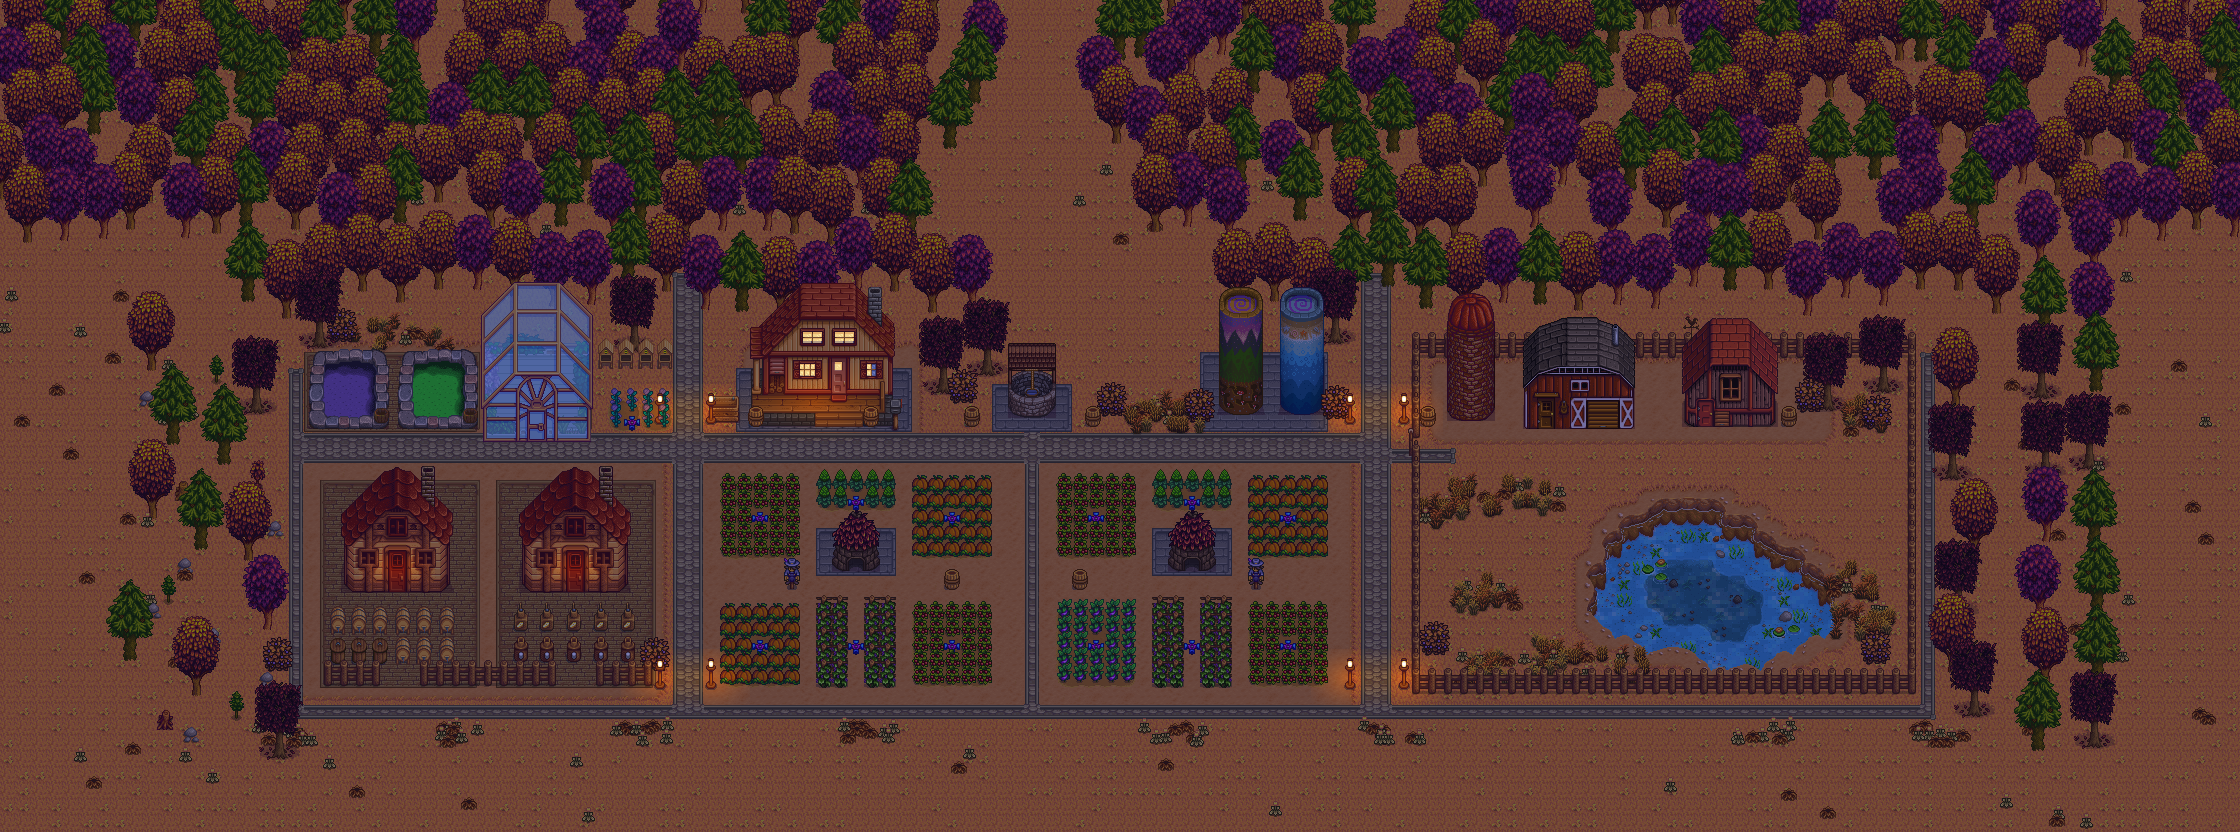
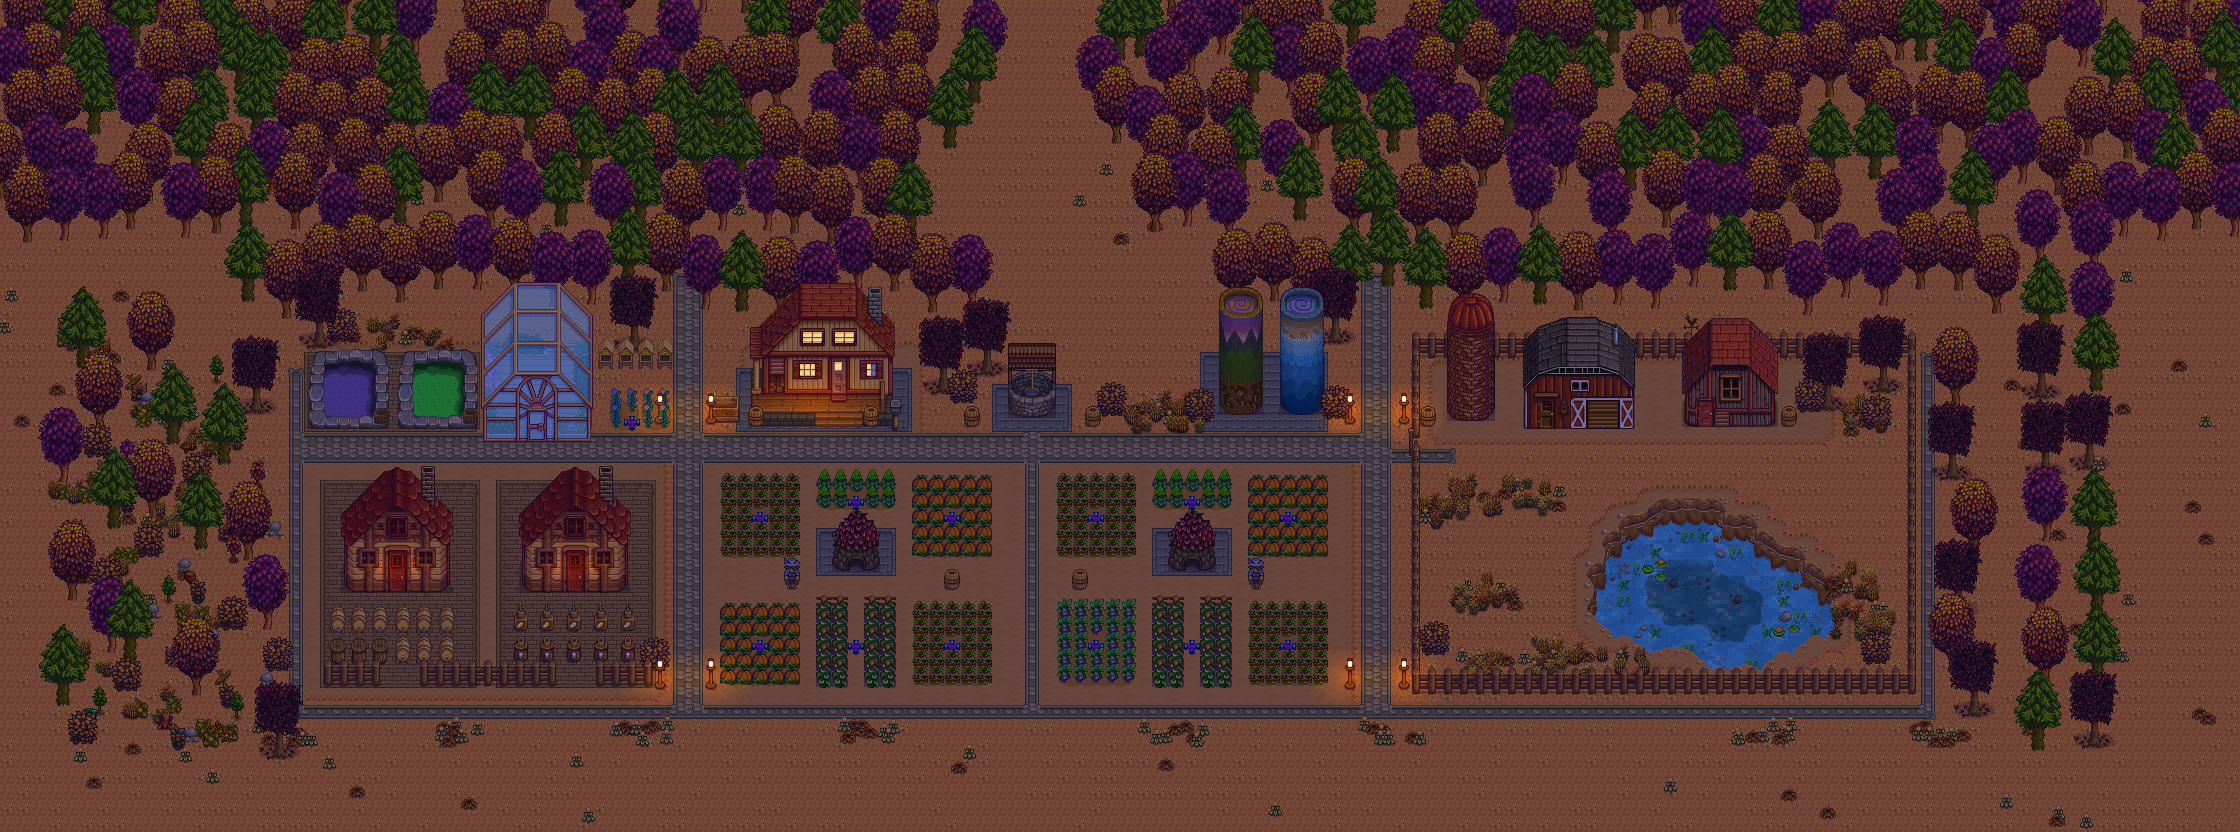
丰富四季农场左缘的森林植被

Changed region(s): [[0.0, 0.3438, 0.125, 0.9062]]

diff --git a/scripts/compose_spring_estate.py b/scripts/compose_spring_estate.py
@@ -151,6 +151,59 @@ def left_woodland(season):
                     (-38, 374), (9, 419), (-62, 467)]:
         stone = tile(outdoors(season), 7, 9) if season == "winter" else tile("Maps/springobjects.png", 343 % 24, 343 // 24)
         props.append((foot + rng.randint(-4, 4), x + rng.randint(-6, 6), stone))
+    # Put the denser canopy on the outside, with smaller growth beside the farm.
+    for x, foot, kind in [(-173, 103, "pine"), (-157, 160, "oak"), (-194, 211, "maple"),
+                          (-142, 264, "pine"), (-184, 329, "oak"), (-146, 381, "maple"),
+                          (-193, 441, "pine")]:
+        props.append((foot, x, plant_tree(season, kind)))
+    for x, foot, species_id in [(-129, 193, 2), (-23, 292, 1), (-157, 444, 3)]:
+        props.append((foot, x, woodland_detail(season, species_id, 0)))
+    props.extend(woodland_understory(season))
+    return props
+
+
+def woodland_understory(season):
+    """Group shrubs and ground cover near tree bases, leaving irregular gaps."""
+    rng = Random(907)
+    bushes = "TileSheets/bushes.png"
+    low_x = 32 * SEASONS.index(season)
+    low = [cut(bushes, x, 224, 16, 32) for x in (low_x, low_x + 16)]
+    x, y, height = {"spring": (0, 0, 48), "summer": (0, 96, 32),
+                    "fall": (0, 48, 48), "winter": (64, 48, 48)}[season]
+    tall = cut(bushes, x, y, 32, height)
+    shrubs = [(-183, 72, tall), (-117, 131, low[1]), (-32, 151, low[0]),
+              (-159, 186, tall), (-59, 215, tall), (-129, 243, low[0]),
+              (-182, 267, low[1]), (-30, 271, low[1]), (-107, 286, tall),
+              (-149, 320, tall), (-58, 333, low[0]), (-23, 359, tall),
+              (-196, 380, low[1]), (-83, 394, low[1]), (-129, 420, tall),
+              (-29, 437, low[0]), (-173, 473, tall), (-78, 479, low[0])]
+    props = [(foot, x, sprite.crop(sprite.getbbox())) for x, foot, sprite in shrubs]
+
+    grass_row = {"spring": 0, "summer": 1, "fall": 2, "winter": 4}[season]
+    grass = [cut("TerrainFeatures/grass.png", x * 15, grass_row * 20, 15, 20) for x in range(3)]
+    sheet = "Maps/springobjects.png"
+    weed_ids = {"spring": (674, 675, 676), "summer": (784, 785, 792),
+                "fall": (452, 786, 794), "winter": ()}[season]
+    weeds = [tile(sheet, idx % 24, idx // 24) for idx in weed_ids]
+    if season == "winter":
+        weeds = [tile(outdoors(season), 7, row) for row in (9, 10, 12)]
+    cover = grass + weeds
+    for cx, cy, spread, count in [(-170, 83, 25, 9), (-101, 151, 25, 7), (-42, 176, 24, 8),
+                                   (-174, 223, 30, 11), (-86, 257, 17, 6), (-157, 302, 32, 12),
+                                   (-50, 360, 24, 11), (-172, 397, 26, 8), (-104, 441, 27, 10),
+                                   (-46, 467, 23, 9)]:
+        for i in range(count):
+            x = cx + rng.randint(-spread, spread)
+            foot = cy + rng.randint(-12, 12)
+            props.append((foot, x, rng.choice(cover)))
+
+    forage = {"spring": (16, 18, 22), "summer": (396, 398, 402),
+              "fall": (404, 408, 410), "winter": (283, 414, 418)}[season]
+    for x, foot, idx in [(-123, 118, 294), (-70, 183, forage[0]), (-151, 204, 295),
+                         (-108, 264, 294), (-175, 288, 343), (-66, 313, forage[1]),
+                         (-125, 365, 295), (-33, 413, 294), (-166, 452, forage[2])]:
+        sprite = tile(outdoors(season), 7, 9) if season == "winter" and idx == 343 else tile(sheet, idx % 24, idx // 24)
+        props.append((foot, x, sprite))
     return props
 
 
